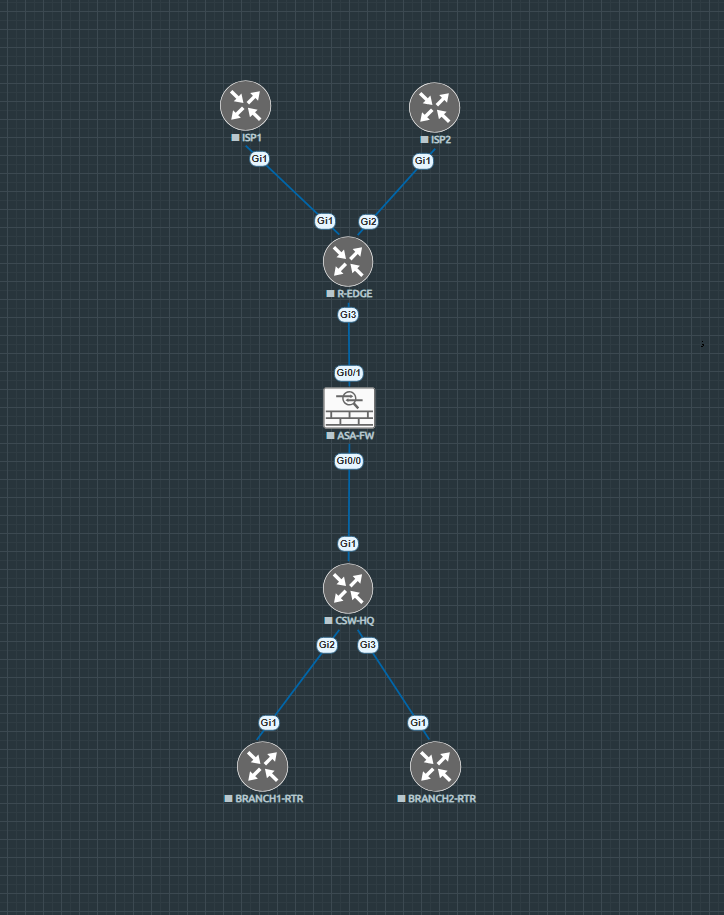
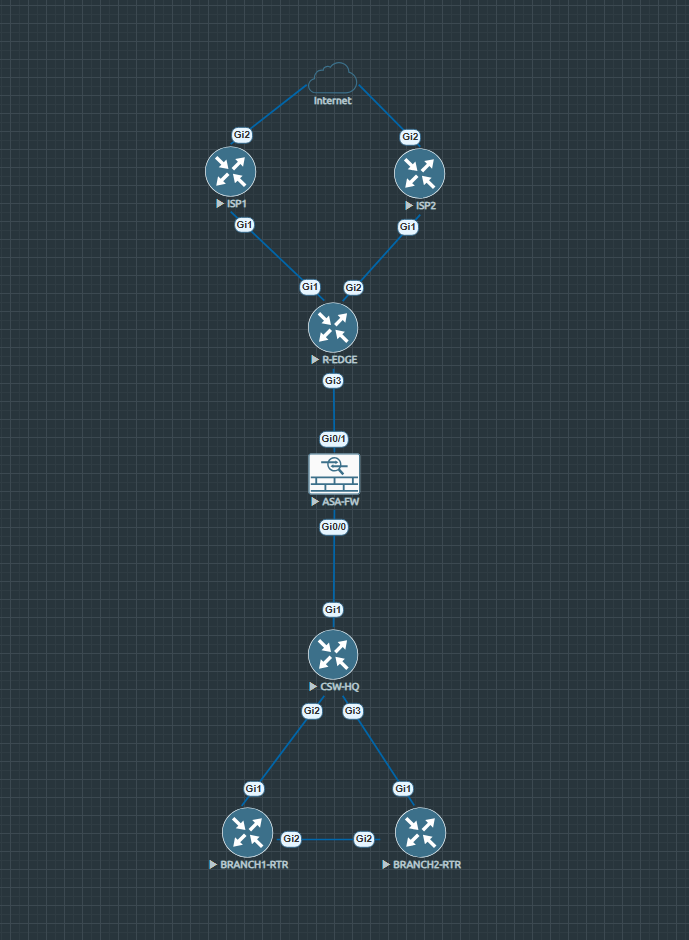
Completed basic

diff --git a/steps/01_ISP_and_R-EDGE.md b/steps/01_ISP_and_R-EDGE.md
@@ -14,7 +14,7 @@ This step sets up both ISP routers and the enterprise edge router (R-EDGE). It i
 
 ## 2. Interface Overview
 
-| Link                | Subnet           | ISP Side IP     | R-EDGE Side IP   |
+| Link                | Subnet           | ISP Side IP      | R-EDGE Side IP   |
 |---------------------|------------------|------------------|------------------|
 | ISP1 ↔ R-EDGE       | 198.51.100.0/30  | 198.51.100.1     | 198.51.100.2     |
 | ISP2 ↔ R-EDGE       | 203.0.113.0/30   | 203.0.113.1      | 203.0.113.2      |
@@ -33,6 +33,13 @@ interface GigabitEthernet1
  no shutdown
 !
 ip route 192.168.10.0 255.255.255.252 198.51.100.2
+!
+interface GigabitEthernet2
+ ip address DHCP
+ description "To Internet"
+ no shutdown
+!
+ip route 0.0.0.0 0.0.0.0 198.168.40.1           # My personal SOHO router Gateway
 ```
 
 ---
@@ -47,6 +54,13 @@ interface GigabitEthernet1
  no shutdown
 !
 ip route 192.168.10.0 255.255.255.252 203.0.113.2
+!
+interface GigabitEthernet2
+ ip address DHCP
+ description "To Internet"
+ no shutdown
+!
+ip route 0.0.0.0 0.0.0.0 198.168.40.1           # My personal SOHO router Gateway
 ```
 
 ---
@@ -55,13 +69,15 @@ ip route 192.168.10.0 255.255.255.252 203.0.113.2
 
 ```bash
 hostname R-EDGE
+interface loopback0
+ ip address 10.255.0.1 255.255.255.255
 !
 interface GigabitEthernet1
  description "To ISP1"
  ip address 192.51.100.2 255.255.255.252
  no shutdown
 !
-inerface GigabitEthernet2
+interface GigabitEthernet2
  description "To ISP2"
  ip address 203.0.113.2 255.255.255.252
  no shutdown
@@ -75,20 +91,21 @@ ip route 0.0.0.0 0.0.0.0 192.51.100.1 track 1
 ip route 0.0.0.0 0.0.0.0 203.0.113.1 10
 !
 ip sla 1
- icmp-echo 8.8.8.8 source-ip 192.51.100.2
- frequency 5                                    # Send ping every 5 seconds
- timeout 2000                                   # If no reply wihtin 2 seconds = failed probe
- threshold 1500                                 # If reply takes over 1.5 seconds = degraded (poor)
+ icmp-echo 192.51.100.1 source-ip 192.51.100.2
+ frequency 5                                    # Send ICMP prove every 5 seconds
+ timeout 2500                                   # Declare probe failed if no reply within 2500ms
+ threshold 1500                                  # Mark probe as degraded if reply exceeds 1500ms
 !
 ip sla schedule 1 life forever start-time now
 !
 track 1 ip sla 1 reachability
- delay down 30                                  # Wait 30s of failed pings before removing route
- delay up 60                                    # Require 60s of success before restoring route
+ delay down 10                                 # Route is withdrawn after 10 consecutive seconds of failure
+ delay up 20                                   # Route is restored only after 30 consecutive seconds of success
 !
 ```
 
 ## Notes
+- The DHCP next-hop is highly dependent on your router, my personal router is 192.168.40.0/24
 - Static routing is only used here for temporary simplicity. 
 - In the `enhancements/` the static routes will be replaced with BGP (eBGP between R-EDGE and ISPs).
 - IP SLA + tracking ensures automatic failover if ISP1 is unreachable.

diff --git a/docs/IP-Plan.md b/docs/IP-Plan.md
@@ -8,6 +8,8 @@ This document outlines the IP addressing schema used across the entire network. 
 
 | Network Segment        | Subnet             | Purpose                                  |
 |------------------------|--------------------|------------------------------------------|
+| ISP1 ↔ Internet        | 198.168.40.0/24    | DHCP from SOHO router                    |
+| ISP2 ↔ Internet        | 198.168.40.0/24    | DHCP from SOHO router                    |
 | ISP1 ↔ R-EDGE          | 198.51.100.0/30    | Uplink to ISP1                           |
 | ISP2 ↔ R-EDGE          | 203.0.113.0/30     | Uplink to ISP2                           |
 | R-EDGE ↔ ASA           | 192.168.10.0/30    | Edge to firewall connection              |
@@ -23,7 +25,7 @@ This document outlines the IP addressing schema used across the entire network. 
 
 | Device         | Loopback IP         | Use Case              |
 |----------------|---------------------|-----------------------|
-| R-EDGE         | 10.255.0.1/32       | Router-ID / reference |
+| R-EDGE         | 10.255.0.1/32       | Router-ID             |
 | CSW-HQ         | 10.255.0.2/32       | Router-ID             |
 | BRANCH1-RTR    | 10.255.1.1/32       | Router-ID             |
 | BRANCH2-RTR    | 10.255.1.2/32       | Router-ID             |

diff --git a/steps/05_Testing_and_Verification.md b/steps/05_Testing_and_Verification.md
@@ -21,24 +21,22 @@ Ensure:
 
 ## 2. Ping Tests
 
-### From BRANCH1
+### From BRANCH1-RTR
 
 ```bash
 ping vrf CUSTOMER1 10.21.0.1        ! Self LAN
 ping vrf CUSTOMER1 10.20.0.1        ! CSW-HQ link
-ping vrf CUSTOMER1 10.10.0.1        ! ASA inside
-ping vrf CUSTOMER1 8.8.8.8          ! Internet via NAT
+ping vrf CUSTOMER1 1.1.1.1          ! Internet via NAT
 ```
 
 ---
 
-### From BRANCH1
+### From BRANCH2-RTR
 
 ```bash
 ping vrf CUSTOMER2 10.31.0.1
 ping vrf CUSTOMER2 10.30.0.1
-ping vrf CUSTOMER2 10.10.0.1
-ping vrf CUSTOMER2 8.8.8.8
+ping vrf CUSTOMER2 1.1.1.1
 ```
 
 ---

diff --git a/steps/02_ASA_and_NAT.md b/steps/02_ASA_and_NAT.md
@@ -16,9 +16,9 @@ This step configures the ASA firewall in routed mode. It connects R-EDGE (outsid
 ## 2. ASA Base Configuration
 
 ```bash
+enable
+# password is golrang1
 hostname ASA
-no enable password
-enable password golrang123
 no names
 !
 interface GigabitEthernet0/1
@@ -71,13 +71,8 @@ Ensuring the default inspection policy is beng applied:
 policy-map global_policy
  class inspection_default
   inspect icmp
-  inspect ftp
+  inspect ipv6
   inspect http
-  inspect https
-  inspect dns
-!
-service-policy global_policy global
-
 ```
 
 ---

diff --git a/steps/04_Branch_Routing.md b/steps/04_Branch_Routing.md
@@ -39,6 +39,9 @@ ip vrf CUSTOMER2
 | Gi2       | LAN Interface | 10.21.0.1/24 | CUSTOMER1 |
 
 ```bash
+inteface loopback0
+ ip address 10.255.1.1 255.255.255.255
+!
 interface GigabitEthernet1
  description "To CSW-HQ"
  ip vrf forwarding CUSTOMER1
@@ -62,6 +65,9 @@ interface GigabitEthernet2
 | Gi2       | LAN Interface | 10.31.0.1/24 | CUSTOMER2 |
 
 ```bash
+interface loopback0
+ ip address 10.255.1.2 255.255.255.255
+!
 interface GigabitEthernet1
  description "To CSW-HQ"
  ip vrf forwarding CUSTOMER2

diff --git a/steps/03_CSW_VRF_LITE.md b/steps/03_CSW_VRF_LITE.md
@@ -31,6 +31,9 @@ ip vrf CUSTOMER2
 ## 3. Interface Configuration
 
 ```bash
+interface loopback0
+ ip address 10.255.0.2 255.255.255.255
+!
 interface GigabitEthernet1
  description "To ASA inside"
  ip address 10.10.0.2 255.255.255.252

diff --git a/notes/notater.md b/notes/notater.md
@@ -3,3 +3,5 @@
 - fiks struktur "##", "###", og "---"
 - glemte å lage "internet", tillegg til ip-plan
 - glemte LAN mellom Branch1 og Branch2
+
+- IPv6 ikke støttet på SOHO.
